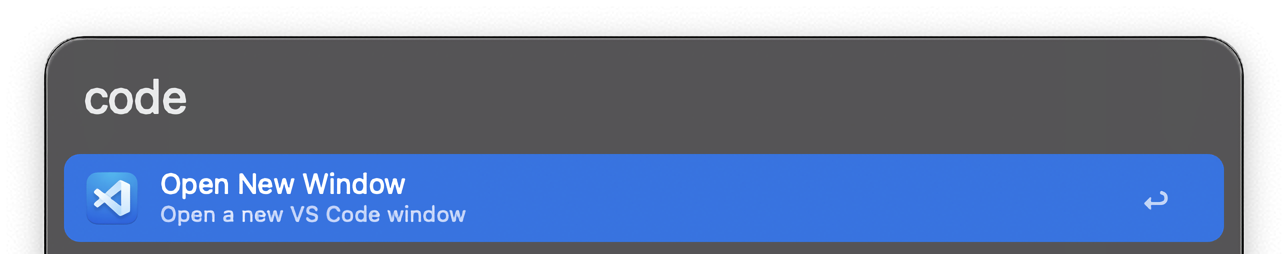
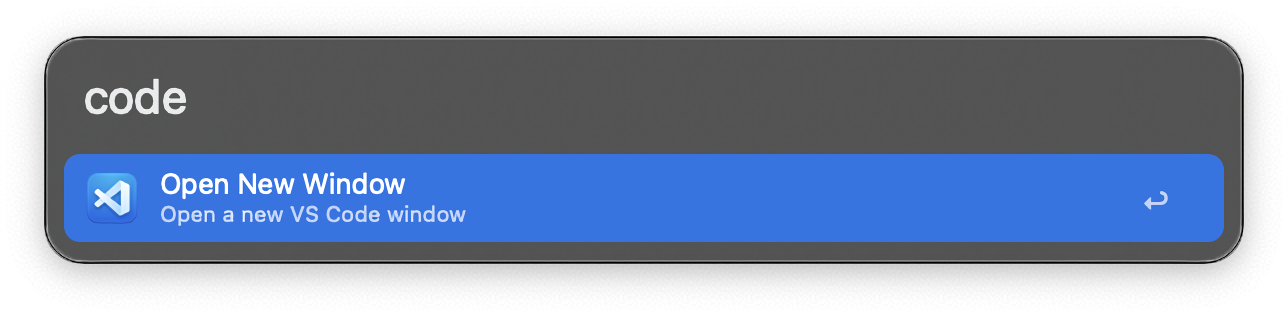
Add new image for Universal Action and modify code image to use 1 result

diff --git a/workflows/vanstrouble/vscode/readme.md b/workflows/vanstrouble/vscode/readme.md
@@ -18,6 +18,8 @@ Open any folder in VS Code by giving its path to the `coped` keyword. If you don
 
 Alternatively, open any file or folder via the Universal Action.
 
+![Universal Action for codes keyword](images/codep-unac.png)
+
 Search the VS Code Marketplace with the `codes` keyword.
 
 ![Search extensions in VScode marketplace](images/codes.png)
